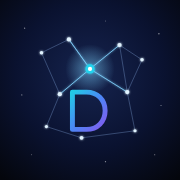
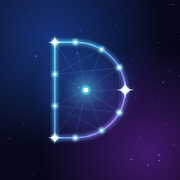
Ícone novo: o D da DENIA desenhado por uma constelação, com estrelas ligadas ao ponto central (#144)
Claude-Session: https://claude.ai/code/session_01LK91ZLHgQz4r5SkWRzjaDb

diff --git a/src/worker.js b/src/worker.js
@@ -31,7 +31,7 @@ import { DDL_ZAP, webhookZap, rotasZap, webhookTelegram, segredoTelegram, tokenT
 import { montarRelatorio, planilhaRelatorio, textoRelatorio, base64, ultimos7Dias, lerConfigRelatorio, horaDeEnviar, diaBR, dataBR, DIAS_SEMANA, inicioDoDia as inicioDoDiaBR } from "./relatorio.js";
 import { lerPlanos, acessoDa, recursoDaRota, planoMinimo, rotasPlano, webhookAsaas, lembretesDePlano, TESTE_DIAS, STATUS as STATUS_PLANO, PLANOS_PADRAO, RECURSOS } from "./planos.js";
 
-const VERSAO = "3.23.1";
+const VERSAO = "3.23.2";
 // Versão dos Termos de uso e da Política de privacidade aceitas no cadastro.
 const VERSAO_TERMOS = "2026-10-16";
 // WhatsApp da Central de Atendimento (botão flutuante do site).

diff --git a/public/contrato-de-dados.html b/public/contrato-de-dados.html
@@ -8,7 +8,7 @@
   <meta name="description" content="Contrato de tratamento de dados pessoais (LGPD e GDPR) entre a DENIA e o Cliente.">
   <meta name="theme-color" content="#04060c">
   <link rel="icon" href="/assets/img/logo.svg" type="image/svg+xml">
-  <link rel="apple-touch-icon" href="/icone-app-180.png">
+  <link rel="apple-touch-icon" href="/icone-d-180.png">
   <link rel="manifest" href="/manifest.webmanifest">
   <meta name="mobile-web-app-capable" content="yes">
   <meta name="apple-mobile-web-app-capable" content="yes">

diff --git a/public/contato.html b/public/contato.html
@@ -8,7 +8,7 @@
   <meta name="description" content="Fale com a equipe DENIA: demonstração, planos, implantação e suporte.">
   <meta name="theme-color" content="#04060c">
   <link rel="icon" href="/assets/img/logo.svg" type="image/svg+xml">
-  <link rel="apple-touch-icon" href="/icone-app-180.png">
+  <link rel="apple-touch-icon" href="/icone-d-180.png">
   <link rel="manifest" href="/manifest.webmanifest">
   <meta name="mobile-web-app-capable" content="yes">
   <meta name="apple-mobile-web-app-capable" content="yes">

diff --git a/public/privacidade.html b/public/privacidade.html
@@ -8,7 +8,7 @@
   <meta name="description" content="Como a DENIA trata dados pessoais de empresas, equipes e clientes.">
   <meta name="theme-color" content="#04060c">
   <link rel="icon" href="/assets/img/logo.svg" type="image/svg+xml">
-  <link rel="apple-touch-icon" href="/icone-app-180.png">
+  <link rel="apple-touch-icon" href="/icone-d-180.png">
   <link rel="manifest" href="/manifest.webmanifest">
   <meta name="mobile-web-app-capable" content="yes">
   <meta name="apple-mobile-web-app-capable" content="yes">

diff --git a/public/exclusao-de-dados.html b/public/exclusao-de-dados.html
@@ -8,7 +8,7 @@
   <meta name="description" content="Condições de uso da plataforma DENIA.">
   <meta name="theme-color" content="#04060c">
   <link rel="icon" href="/assets/img/logo.svg" type="image/svg+xml">
-  <link rel="apple-touch-icon" href="/icone-app-180.png">
+  <link rel="apple-touch-icon" href="/icone-d-180.png">
   <link rel="manifest" href="/manifest.webmanifest">
   <meta name="mobile-web-app-capable" content="yes">
   <meta name="apple-mobile-web-app-capable" content="yes">

diff --git a/public/termos.html b/public/termos.html
@@ -8,7 +8,7 @@
   <meta name="description" content="Condições de uso da plataforma DENIA.">
   <meta name="theme-color" content="#04060c">
   <link rel="icon" href="/assets/img/logo.svg" type="image/svg+xml">
-  <link rel="apple-touch-icon" href="/icone-app-180.png">
+  <link rel="apple-touch-icon" href="/icone-d-180.png">
   <link rel="manifest" href="/manifest.webmanifest">
   <meta name="mobile-web-app-capable" content="yes">
   <meta name="apple-mobile-web-app-capable" content="yes">

diff --git a/public/index.html b/public/index.html
@@ -17,7 +17,7 @@
 <meta property="og:image" content="https://denia-ai.com/icon-512.png">
 <meta name="twitter:card" content="summary">
   <link rel="icon" href="/assets/img/logo.svg" type="image/svg+xml">
-  <link rel="apple-touch-icon" href="/icone-app-180.png">
+  <link rel="apple-touch-icon" href="/icone-d-180.png">
   <link rel="manifest" href="/manifest.webmanifest">
   <meta name="mobile-web-app-capable" content="yes">
   <meta name="apple-mobile-web-app-capable" content="yes">

diff --git a/public/app.html b/public/app.html
@@ -8,7 +8,7 @@
   <meta name="robots" content="noindex">
   <meta name="theme-color" content="#04060c">
   <link rel="icon" href="/assets/img/logo.svg" type="image/svg+xml">
-  <link rel="apple-touch-icon" href="/icone-app-180.png">
+  <link rel="apple-touch-icon" href="/icone-d-180.png">
   <link rel="manifest" href="/manifest.webmanifest">
   <meta name="mobile-web-app-capable" content="yes">
   <meta name="apple-mobile-web-app-capable" content="yes">

diff --git a/public/cadastro.html b/public/cadastro.html
@@ -8,7 +8,7 @@
   <meta name="robots" content="noindex">
   <meta name="theme-color" content="#04060c">
   <link rel="icon" href="/assets/img/logo.svg" type="image/svg+xml">
-  <link rel="apple-touch-icon" href="/icone-app-180.png">
+  <link rel="apple-touch-icon" href="/icone-d-180.png">
   <link rel="manifest" href="/manifest.webmanifest">
   <meta name="mobile-web-app-capable" content="yes">
   <meta name="apple-mobile-web-app-capable" content="yes">

diff --git a/public/entrar.html b/public/entrar.html
@@ -8,7 +8,7 @@
   <meta name="robots" content="noindex">
   <meta name="theme-color" content="#04060c">
   <link rel="icon" href="/assets/img/logo.svg" type="image/svg+xml">
-  <link rel="apple-touch-icon" href="/icone-app-180.png">
+  <link rel="apple-touch-icon" href="/icone-d-180.png">
   <link rel="manifest" href="/manifest.webmanifest">
   <meta name="mobile-web-app-capable" content="yes">
   <meta name="apple-mobile-web-app-capable" content="yes">

diff --git a/public/recuperar.html b/public/recuperar.html
@@ -8,7 +8,7 @@
   <meta name="robots" content="noindex">
   <meta name="theme-color" content="#04060c">
   <link rel="icon" href="/assets/img/logo.svg" type="image/svg+xml">
-  <link rel="apple-touch-icon" href="/icone-app-180.png">
+  <link rel="apple-touch-icon" href="/icone-d-180.png">
   <link rel="manifest" href="/manifest.webmanifest">
   <meta name="mobile-web-app-capable" content="yes">
   <meta name="apple-mobile-web-app-capable" content="yes">

diff --git a/public/redefinir.html b/public/redefinir.html
@@ -8,7 +8,7 @@
   <meta name="robots" content="noindex">
   <meta name="theme-color" content="#04060c">
   <link rel="icon" href="/assets/img/logo.svg" type="image/svg+xml">
-  <link rel="apple-touch-icon" href="/icone-app-180.png">
+  <link rel="apple-touch-icon" href="/icone-d-180.png">
   <link rel="manifest" href="/manifest.webmanifest">
   <meta name="mobile-web-app-capable" content="yes">
   <meta name="apple-mobile-web-app-capable" content="yes">
